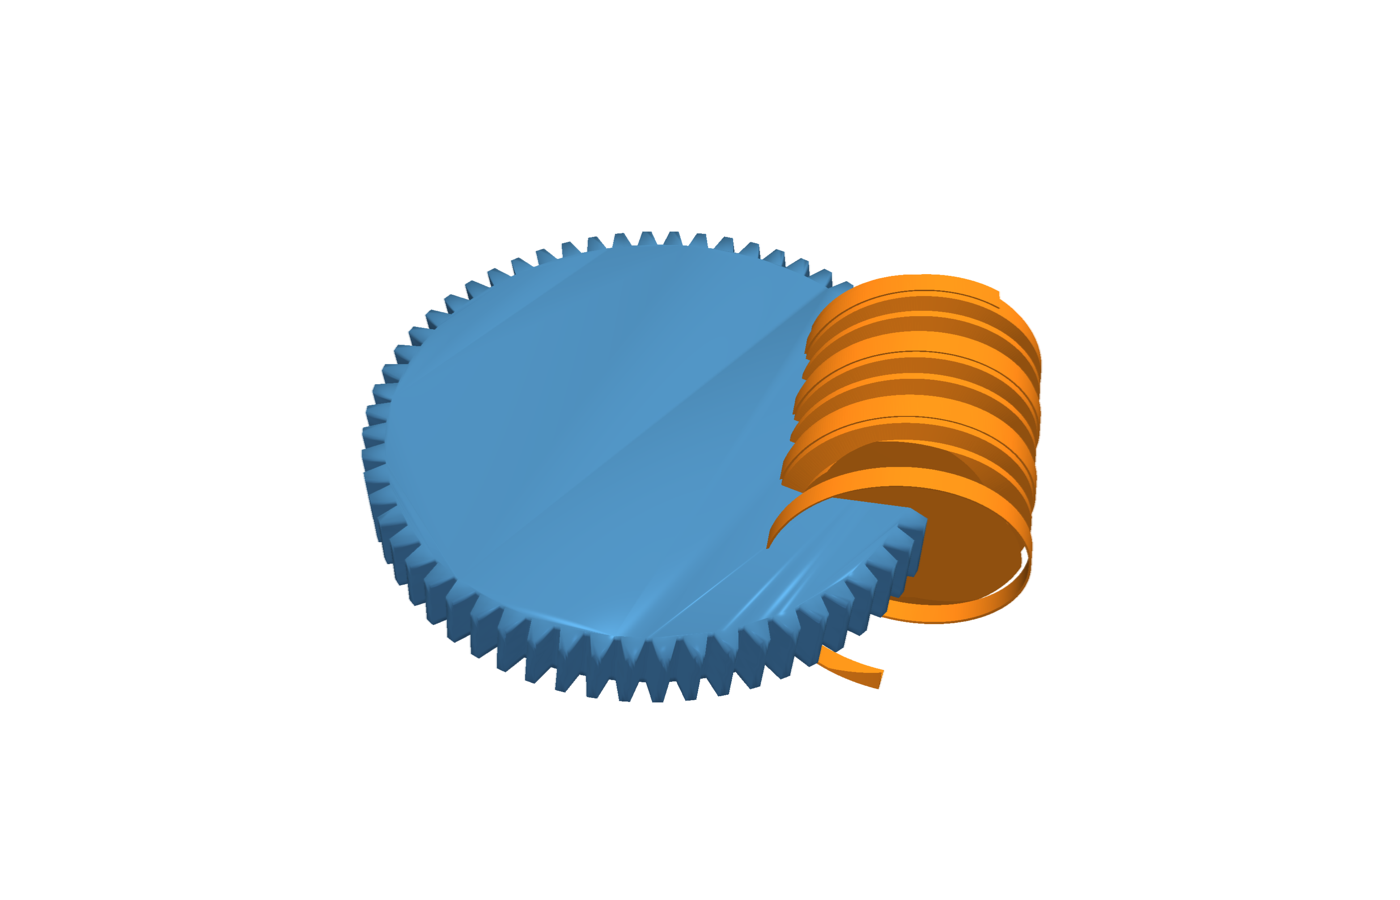
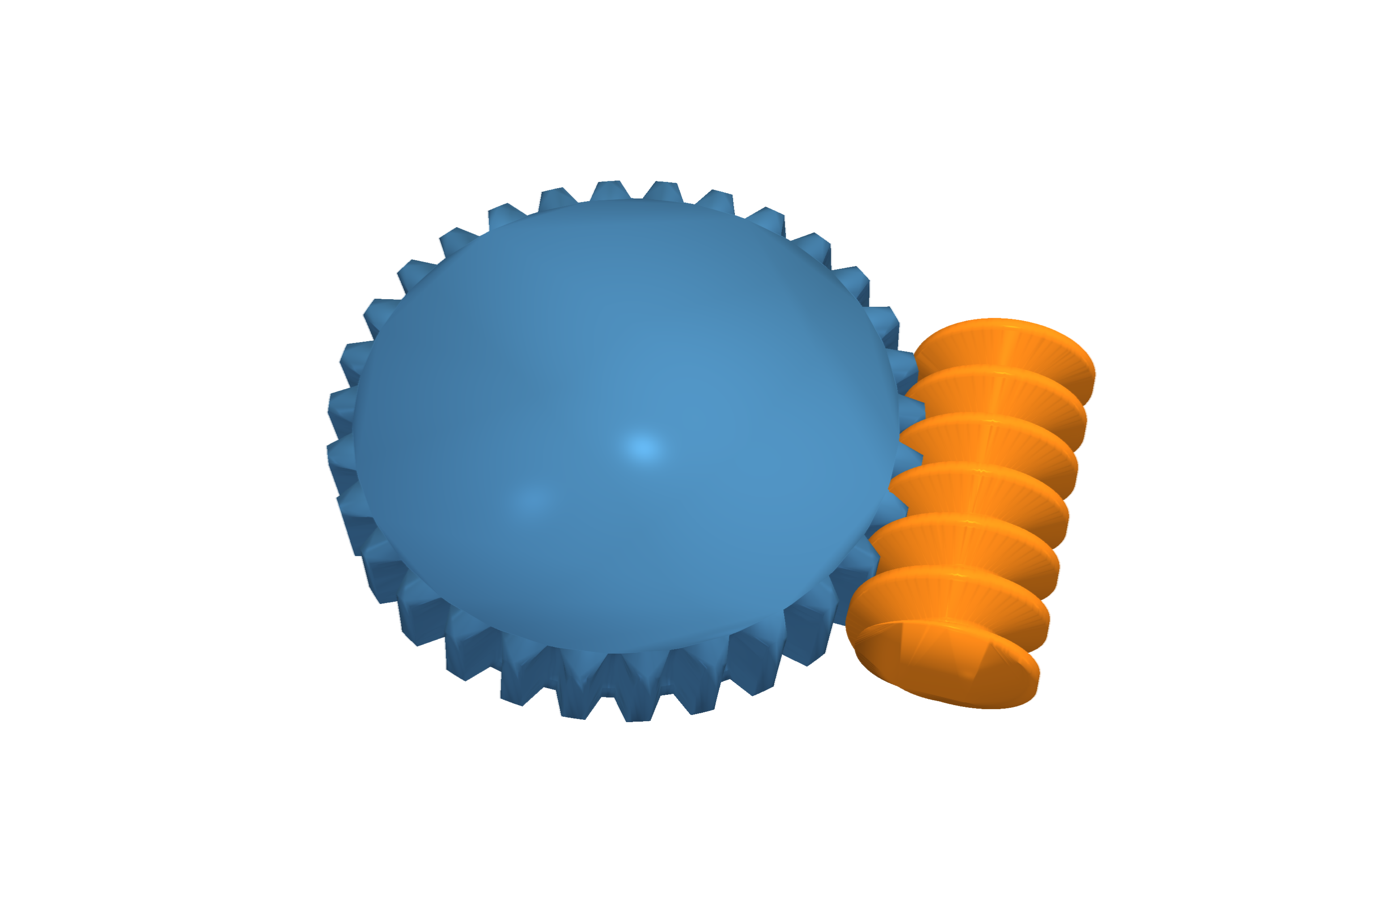
docs: replace hero render with canonical worm-gear pair
The earlier hero (3-start cylindrical worm, plain wheel, no throating)
came out looking like a helical ribbon floating next to a spur gear —
because (a) ``make_pair`` defaults ``throated=False``, so the wheel was
unthroated, and (b) the 3-start helix was steep and dramatic in a way
that obscured the engagement rather than illustrating it. Worse, the
positioning used the buggy pre-#221 centre distance, so the parts
were effectively interpenetrating.

This render uses the conventional config that someone learning what a
worm gear looks like would expect:

* Cylindrical 1-start worm, module 2.0, 40 mm long.
* Throated 30-tooth wheel (``make_pair(..., throated=True)``).
* Positioned at the correct centre distance (38.14 mm — verified by
  ``find_optimal_mesh_rotation``, 8.7 mm³ interference, "good").

Rendered via build123d STL export + pyvista off-screen + Xvfb.

Changed region(s): [[0.215, 0.1867, 0.7986, 0.8089], [0.43, 0.4667, 0.4914, 0.5289]]

diff --git a/README.md b/README.md
@@ -7,7 +7,7 @@
 [![CI](https://github.com/pzfreo/wormgear/actions/workflows/ci.yml/badge.svg)](https://github.com/pzfreo/wormgear/actions/workflows/ci.yml)
 [![License: MIT](https://img.shields.io/badge/License-MIT-yellow.svg)](https://opensource.org/licenses/MIT)
 
-![A 3-start worm meshing with a 60-tooth wheel, generated by wormgear](docs/images/worm_pair_hero.png)
+![A cylindrical worm meshing with a throated 30-tooth wheel, generated by make_pair() and rendered headlessly](docs/images/worm_pair_hero.png)
 
 ```python
 from wormgear import WormGear, WormWheel